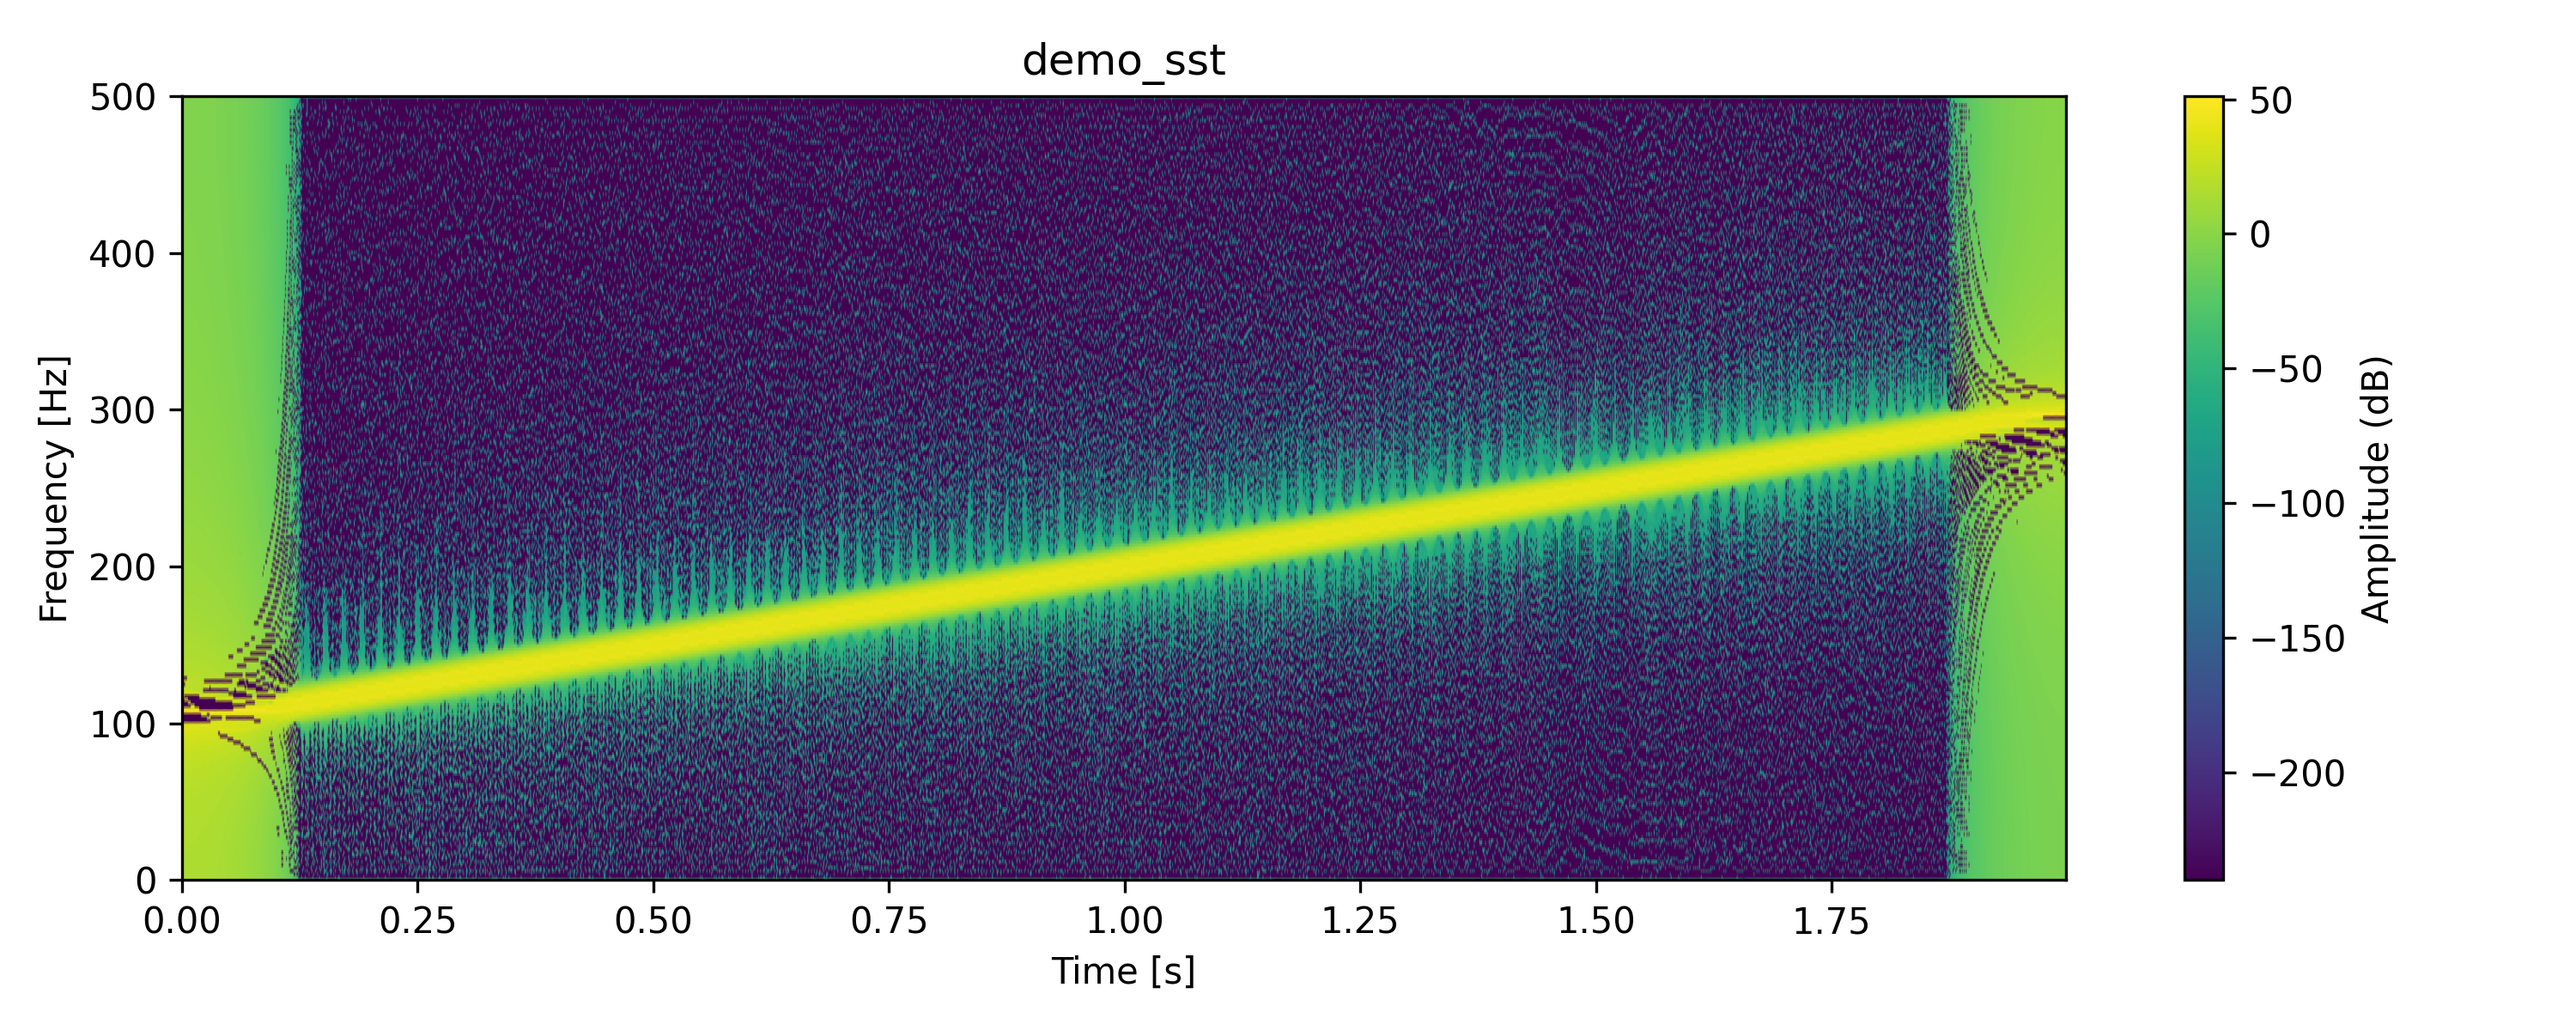
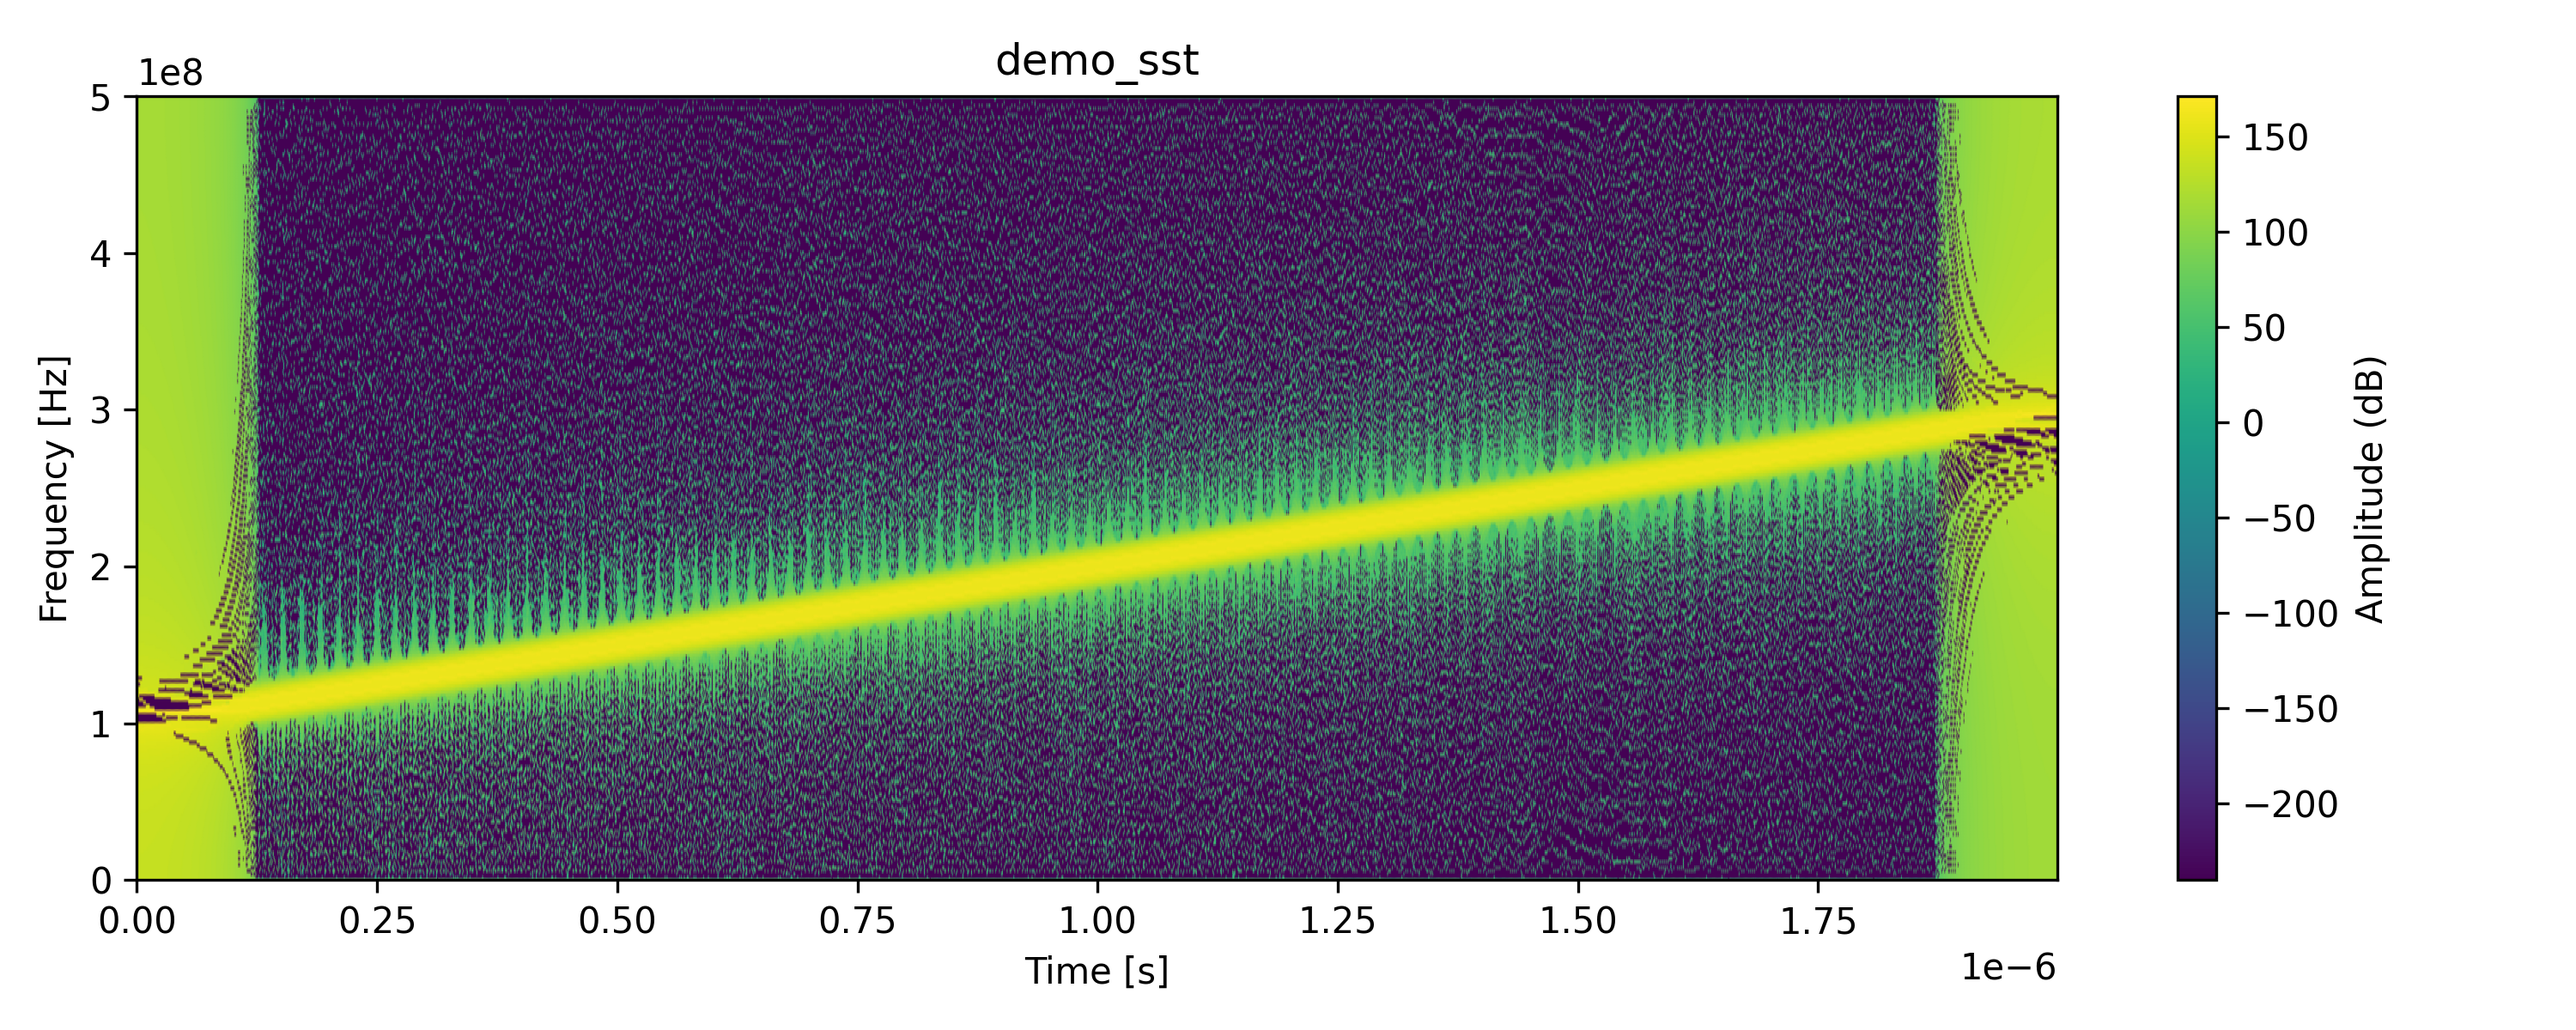
do not touch wavelet again

diff --git a/Despair.py b/Despair.py
@@ -141,13 +141,18 @@ def The_Function(noise_start, noise_level_step,noise_stop, beta_start, beta_step
                 upper_env, lower_env, mean_env = d.sift(Recon_base_H)
                 result_base_H = d.align_to_envelope_with_time(mean_env, t, time_stamp_base)
                 result_base_H["scale"] = second_scale
+                result_base_H["reconstruction"] = Recon_base_H
+                result_base_H["t"] = t
 
                 upper_env, lower_env, mean_env = d.sift(Recon_harmonic_H)
                 result_harmonic_H = d.align_to_envelope_with_time(mean_env, t, time_stamp_harmonic)
                 result_harmonic_H["scale"] = second_scale
+                result_harmonic_H["reconstruction"] = Recon_harmonic_H
+                result_harmonic_H["t"] = t
 
                 Result_base_H[plot_name_H] = result_base_H
                 Result_harmonic_H[plot_name_H] = result_harmonic_H
+                
 
                 t1 = time.perf_counter()
 
@@ -161,10 +166,14 @@ def The_Function(noise_start, noise_level_step,noise_stop, beta_start, beta_step
                 upper_env, lower_env, mean_env = d.sift(Recon_base_W)
                 result_base_W = d.align_to_envelope_with_time(mean_env, t, time_stamp_base)
                 result_base_W["scale"] = second_scale
+                result_base_W["reconstruction"] = Recon_base_W
+                result_base_W["t"] = t
 
                 upper_env, lower_env, mean_env = d.sift(Recon_harmonic_W)
                 result_harmonic_W = d.align_to_envelope_with_time(mean_env, t, time_stamp_harmonic)
                 result_harmonic_W["scale"] = second_scale
+                result_harmonic_W["reconstruction"] = Recon_harmonic_W
+                result_harmonic_W["t"] = t
 
                 Result_base_W[plot_name_W] = result_base_W
                 Result_harmonic_W[plot_name_W] = result_harmonic_W
@@ -204,7 +213,7 @@ def time_eval(Result_base_H, Result_harmonic_H ,Result_base_W, Result_harmonic_W
         time_base = []
         for element in Result_base_H[instance]:
              
-            if element == "scale":
+            if element == "scale" or  element == "reconstruction" or element == "t" :
                 continue
             if element is None:
                 continue
@@ -220,7 +229,7 @@ def time_eval(Result_base_H, Result_harmonic_H ,Result_base_W, Result_harmonic_W
         time_base = []
         for element in Result_base_W[instance]:
              
-            if element == "scale":
+            if element == "scale" or  element == "reconstruction" or element == "t":
                 continue
             if element is None:
                 continue
@@ -236,7 +245,7 @@ def time_eval(Result_base_H, Result_harmonic_H ,Result_base_W, Result_harmonic_W
         time_base = []
         for element in Result_base_S[instance]:
              
-            if element == "scale":
+            if element == "scale" or  element == "reconstruction" or element == "t":
                 continue
             if element is None:
                 continue
@@ -252,7 +261,7 @@ def time_eval(Result_base_H, Result_harmonic_H ,Result_base_W, Result_harmonic_W
         time_base = []
         for element in Result_harmonic_H[instance]:
              
-            if element == "scale":
+            if element == "scale" or  element == "reconstruction" or element == "t":
                 continue
             if element is None:
                 continue
@@ -267,7 +276,7 @@ def time_eval(Result_base_H, Result_harmonic_H ,Result_base_W, Result_harmonic_W
         time_base = []
         for element in Result_harmonic_W[instance]:
              
-            if element == "scale":
+            if element == "scale" or  element == "reconstruction" or element == "t":
                 continue
             if element is None:
                 continue
@@ -282,7 +291,7 @@ def time_eval(Result_base_H, Result_harmonic_H ,Result_base_W, Result_harmonic_W
         time_base = []
         for element in Result_harmonic_S[instance]:
              
-            if element == "scale":
+            if element == "scale" or  element == "reconstruction" or element == "t":
                 continue
             if element is None:
                 continue

diff --git a/transforms/wavelet_processing.py b/transforms/wavelet_processing.py
@@ -3,7 +3,8 @@ import pandas as pd
 import numpy as np
 import os
 import matplotlib.pyplot as plt
-from ssqueezepy import cwt, icwt, Wavelet
+from ssqueezepy import cwt, icwt
+from ssqueezepy.experimental import scale_to_freq
 
 
 
@@ -34,16 +35,7 @@ def wavelet_scalogram_OG(t, sig, wavelet = 'cgau2', n_scales=100, name="wavelet_
     plt.close() 
     print(f"Plot saved to {filepath}")
 
-def wavelet_scalogram(
-        
-    t_us,                      # time in microseconds
-    sig,
-    wavelet='cgau2',
-    fmin_mhz=1.0e6,
-    fmax_mhz=4.5e6,
-    n_freqs=600,
-    name="wavelet_scalogram"
-):
+def wavelet_scalogram(t_us,sig,wavelet='cgau2',fmin_mhz=1.0e6,fmax_mhz=4.5e6,n_freqs=600,name="wavelet_scalogram"):
 
 
     #fmin_mhz and fmax_mhz is in Hz not MHz
@@ -134,72 +126,47 @@ def wavelet_scalogram(
     plt.close()
 
     print(f"Plot saved to {filepath}")
-<<<<<<< HEAD
     return t, freqs, power
-=======
+
+
+
+
 
 def reconstruct_frequency_band(
     t_us,
-    sig,
+    signal,
     band_min,
     band_max,
-    wavelet='cmor3.0-1.0',
-    fmin=1e6,
-    fmax=4.5e6,
-    n_freqs=300
+    wavelet,
+    fmin,
+    fmax,
+    n_freqs
 ):
     """
-    CWT band reconstruction with amplitude preservation (no normalization).
+    Reconstruct a frequency band from a signal using CWT.
+
+    Time vector t is in microseconds (µs).
     """
 
-    # -----------------------------
-    # Convert inputs
-    # -----------------------------
-    sig = np.asarray(sig).squeeze()
-    t = np.asarray(t_us).squeeze() * 1e-6  # µs → s
-
+    sig = np.asarray(signal).squeeze()
+    t = np.asarray(t_us).squeeze()*1e-6
     dt = np.mean(np.diff(t))
 
-    # -----------------------------
-    # Frequency grid (Hz)
-    # -----------------------------
     freqs_target = np.linspace(fmin, fmax, n_freqs)
 
-    # -----------------------------
-    # Scale conversion
-    # -----------------------------
     fc = pywt.central_frequency(wavelet)
-    scales = fc / (freqs_target * dt)
+    scales = fc/(freqs_target*dt)
 
-    # -----------------------------
-    # CWT
-    # -----------------------------
-    cwtmatr, freqs = pywt.cwt(
-        sig,
-        scales,
-        wavelet,
-        sampling_period=dt
-    )
+    cwtmatr, freqs = pywt.cwt(sig, scales, wavelet, sampling_period=dt)
 
-    # -----------------------------
-    # Band selection
-    # -----------------------------
     mask = (freqs >= band_min) & (freqs <= band_max)
 
-    cwt_band = cwtmatr[mask, :]
+    cwt_band = cwtmatr[mask,:]
     scales_band = scales[mask]
 
-    # -----------------------------
-    # Amplitude-preserving reconstruction
-    # -----------------------------
-    reconstructed =np.real( np.sum(
-    cwt_band / (scales_band[:, None]**2),
-    axis=0))
+    # Empirical amplitude-correct reconstruction
+    reconstructed_signal = np.real(np.sum(cwt_band/(scales_band[:,None]**2),axis=0))
 
+    reconstructed_signal *= np.mean(np.diff(np.log(scales_band)))
 
-    reconstructed *= np.mean(np.diff(np.log(scales_band)))
-
-    return reconstructed
-
-
->>>>>>> a5a65b441ae3c366d1d74c339f8969c613bf0b40
+    return reconstructed_signal

diff --git a/Mains/main_Hilbert_Huang.py b/Mains/main_Hilbert_Huang.py
@@ -37,7 +37,7 @@ modes_base = ["S0 Propagated signal (nm)", "S1 Propagated signal (nm)", "S2 Prop
 time_stamp_harmonic = {"S1": 68.4808,  "S2": 76.5127, "A4": 91.8515  , "S4": 64.9935, "A2": 71.7798, "S0": 70.7973, "A0": 70.7951}
 time_stamp_base = {"S1": 68.4808,  "S2": 76.5127, "A4": 91.8515  , "S4": 64.9935, "A2": 71.7798, "S0": 70.7973, "A0": 70.7951}
 
-noise_level = 0 #Noise Level: 0 == 0%, 1.5 == 150%, should not be larger than 1.5
+noise_level = 1.5 #Noise Level: 0 == 0%, 1.5 == 150%, should not be larger than 1.5
 beta = 6
 
 # Modes around which the beta parameter is taken, copy-paste from lists above
@@ -108,6 +108,7 @@ fig, ax = plt.subplots(2, 1)
 ax[0].plot(t, Recon_base_H)
 ax[0].set_title("Base Reconstruction")
 
+
 ax[1].plot(t, Recon_harmonic_H)
 ax[1].set_title("Harmonic Reconstruction")
 
@@ -115,6 +116,9 @@ plt.tight_layout()
 plt.show()
 
 
+imfs, residue = Hilbert_Huang_processing .emd(Recon_harmonic_H)
+inst_amp, inst_freq = Hilbert_Huang_processing .hilbert_analysis(imfs, fs)
+fig, ax, H, T, F = Hilbert_Huang_processing.plot_hilbert_spectrum(inst_freq, inst_amp, t, fs, log_amplitude=log_amplitude, f_bins=f_bins ,t_bins=t_bins, name= plot_name)
 
 
 

diff --git a/Mains/main_wavelet.py b/Mains/main_wavelet.py
@@ -44,7 +44,7 @@ modes_base = ["S0 Propagated signal (nm)", "S1 Propagated signal (nm)", "S2 Prop
 time_stamp_harmonic = {"S1": 68.4808,  "S2": 76.5127, "A4": 91.8515  , "S4": 64.9935, "A2": 71.7798, "S0": 70.7973, "A0": 70.7951}
 time_stamp_base = {"S1": 68.4808,  "S2": 76.5127, "A4": 91.8515  , "S4": 64.9935, "A2": 71.7798, "S0": 70.7973, "A0": 70.7951}
 
-noise_level = 1.5 #Noise Level: 0 == 0%, 1.5 == 150%, should not be larger than 1.5
+noise_level = 0 #Noise Level: 0 == 0%, 1.5 == 150%, should not be larger than 1.5
 beta = 6
 
 # Modes around which the beta parameter is taken, copy-paste from lists above
@@ -101,3 +101,5 @@ ax[1].set_title("Harmonic Reconstruction")
 
 plt.tight_layout()
 plt.show()
+print(max(signal))
+print(max(Recon_harmonic_W))
